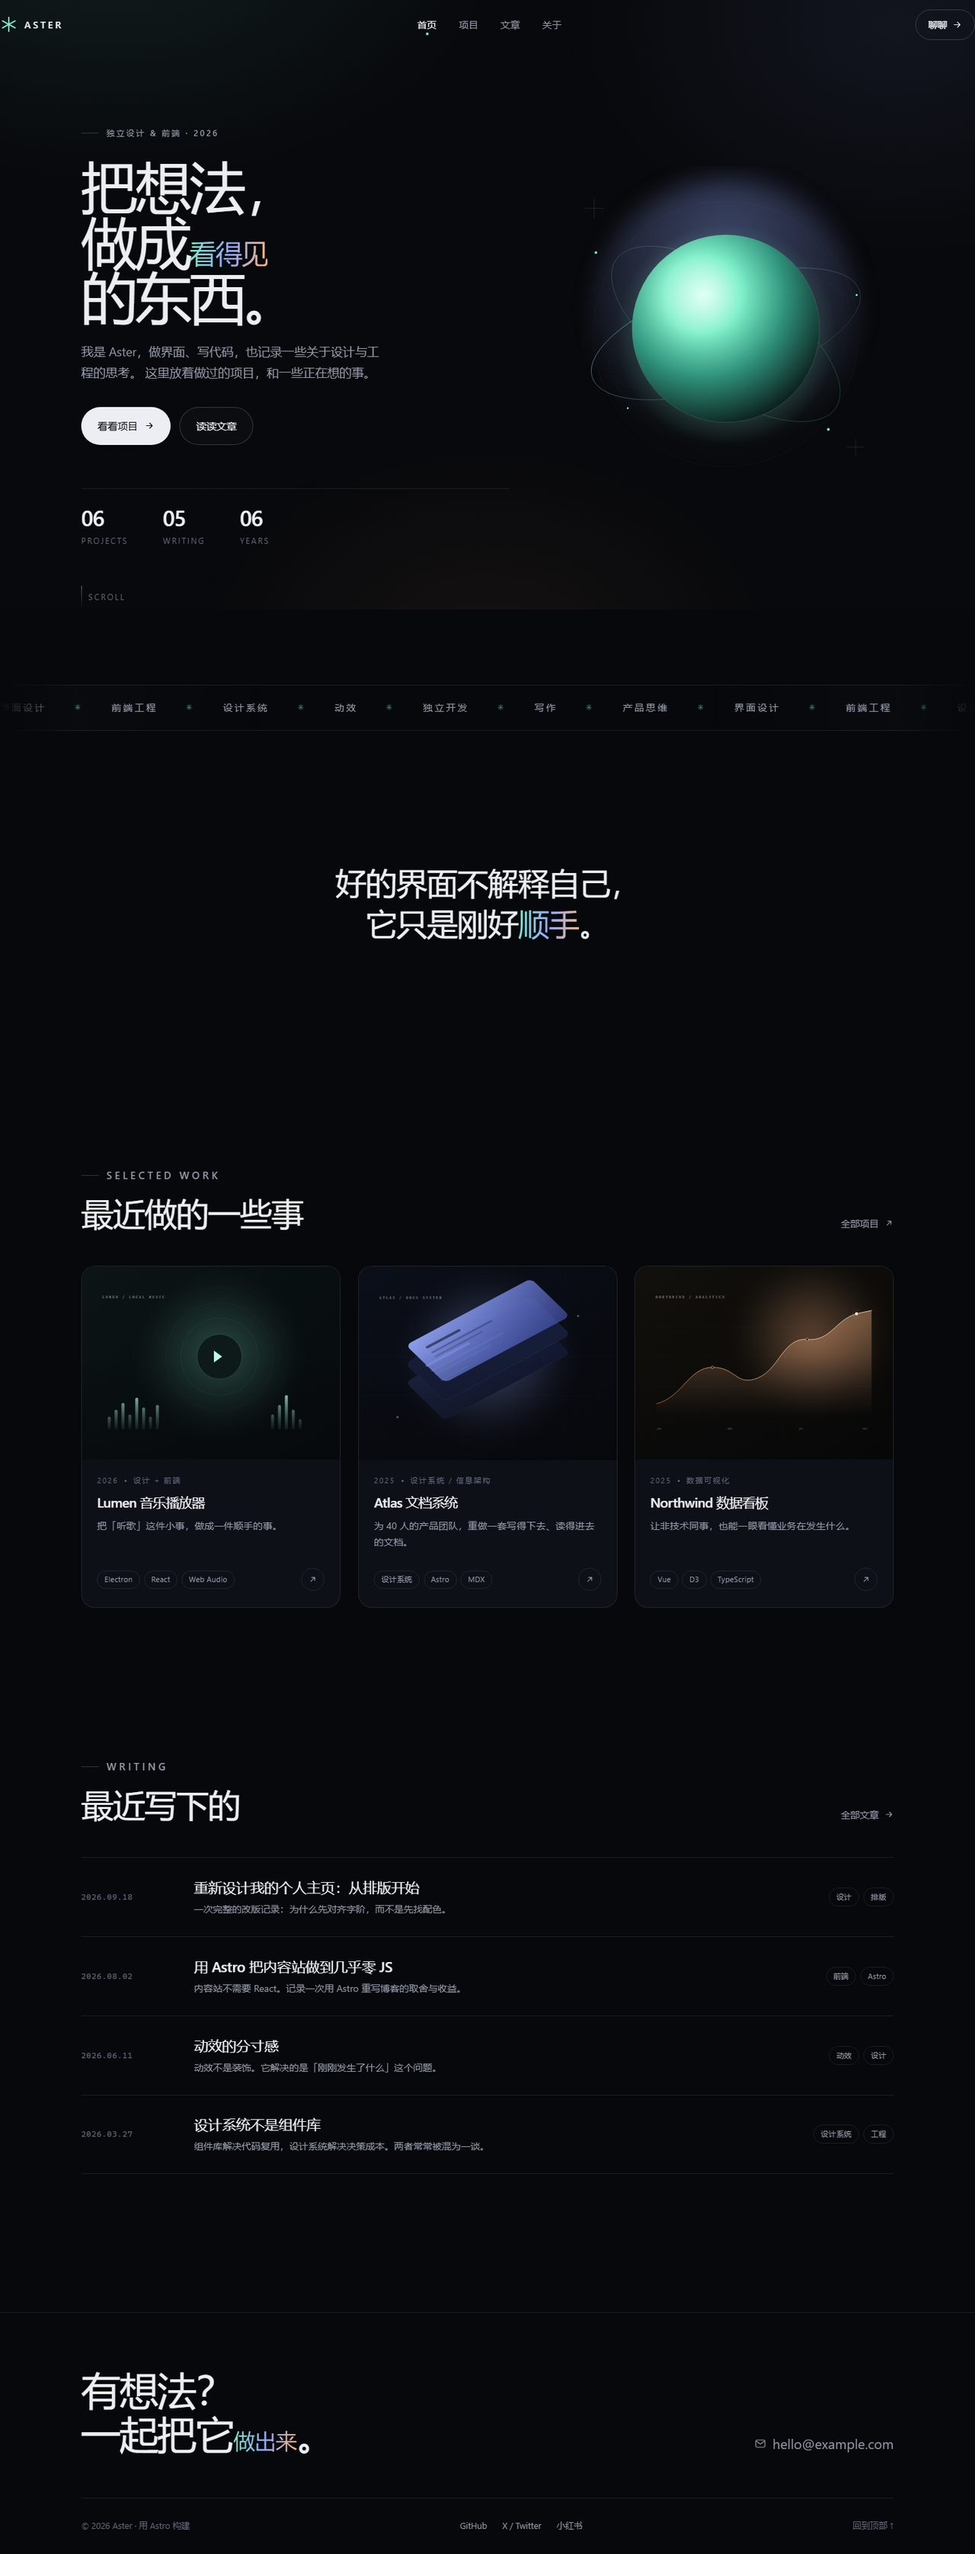
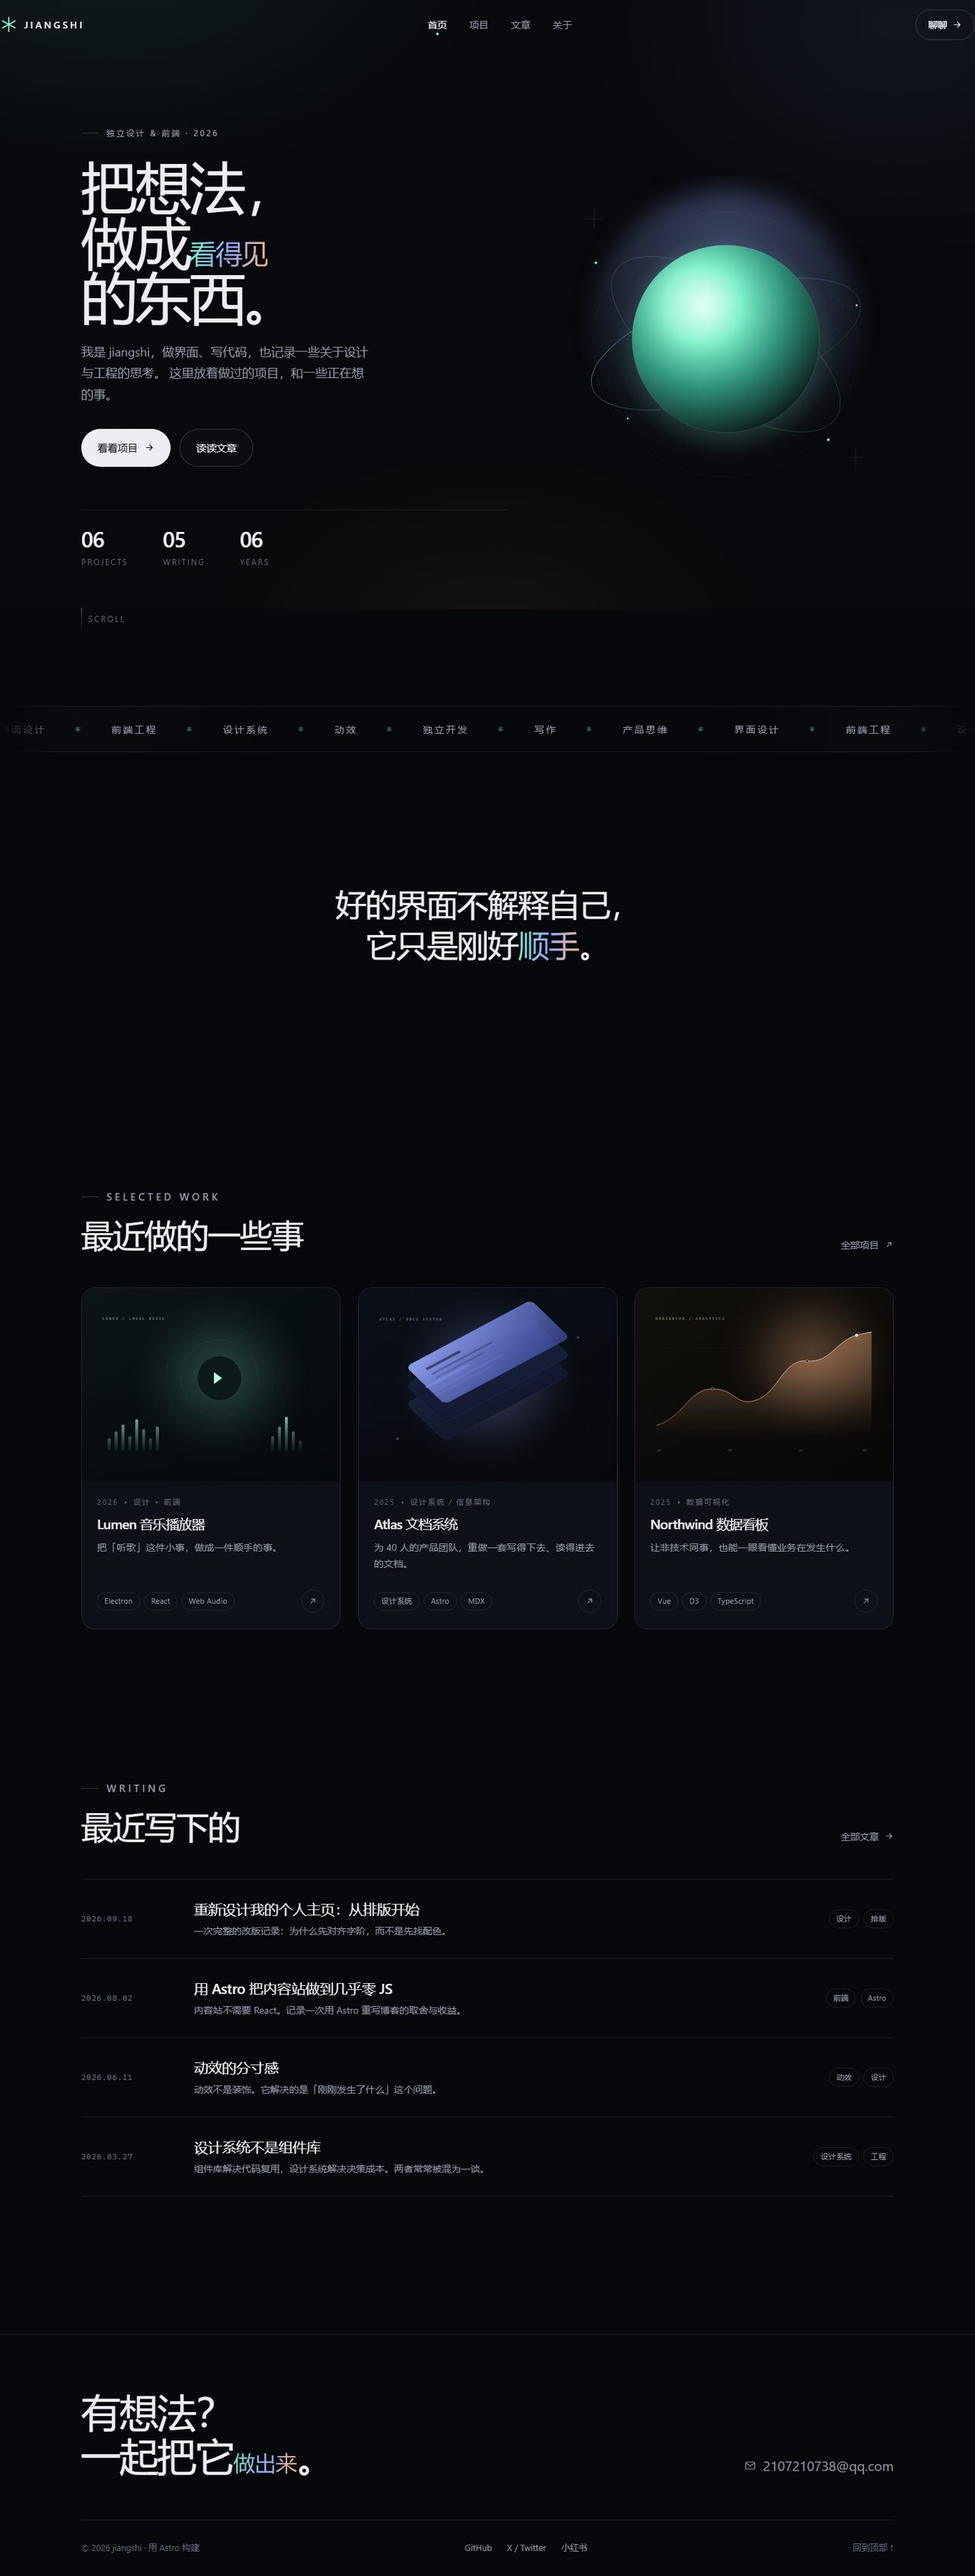
feat: 站点改名为 jiangshi，更新邮箱与预览图

diff --git a/src/config.ts b/src/config.ts
@@ -3,13 +3,13 @@
  */
 export const site = {
   // 品牌名（会出现在导航、页脚、浏览器标题里）
-  name: 'Aster',
+  name: 'jiangshi',
   // 首页大标题上方的眉标
   eyebrow: '独立设计 & 前端 · 2026',
   // 一句话介绍（SEO 描述也用它）
   description: '一个把想法做成界面的地方：项目、笔记，以及关于设计与代码的一些思考。',
-  author: 'Aster',
-  email: 'hello@example.com',
+  author: 'jiangshi',
+  email: '2107210738@qq.com',
   location: '中国 · 杭州',
   // 页脚与关于页的社交链接
   socials: [

diff --git a/src/styles/global.css b/src/styles/global.css
@@ -1,5 +1,5 @@
 /* ==========================================================================
-   Aster — 个人博客 / 作品集
+   jiangshi — 个人博客 / 作品集
    全局样式：设计变量、布局、组件、动效
    ========================================================================== */
 

diff --git a/README.md b/README.md
@@ -1,4 +1,4 @@
-# Aster — 个人博客 / 作品集
+# jiangshi — 个人博客 / 作品集
 
 一个用 [Astro](https://astro.build) 搭的静态个人站：作品集 + 博客。
 深色、单强调色、极少的 JavaScript，构建产物是纯静态 HTML，可以扔到任何静态托管上。
